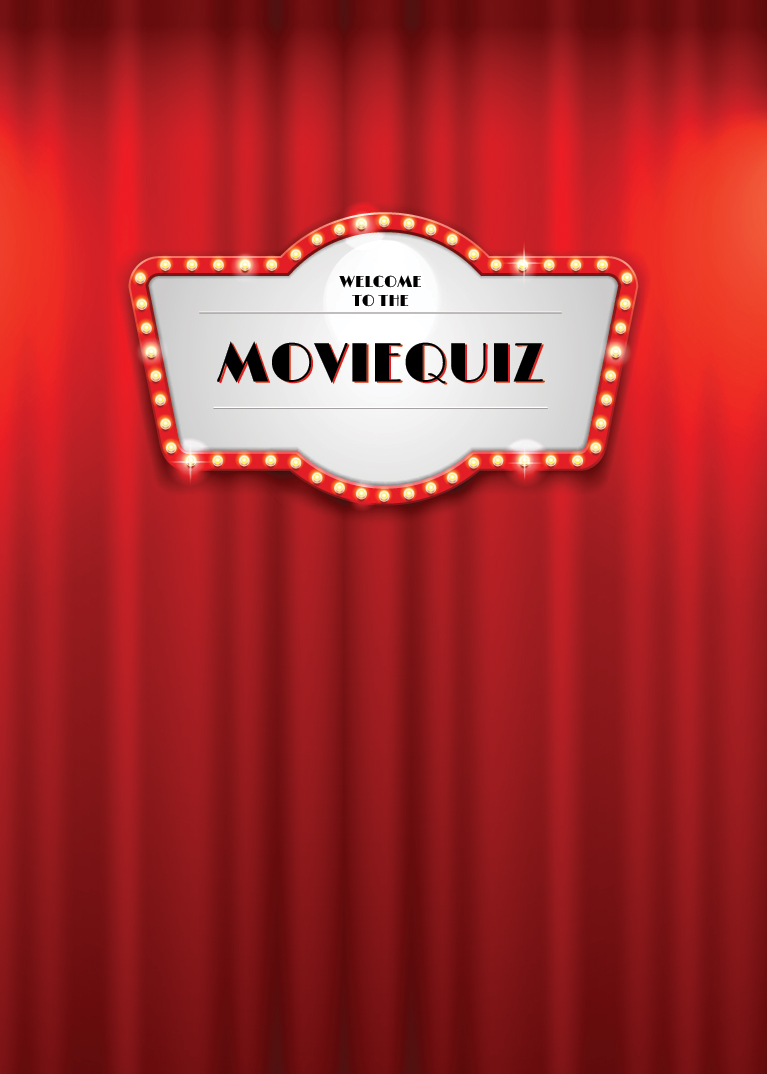
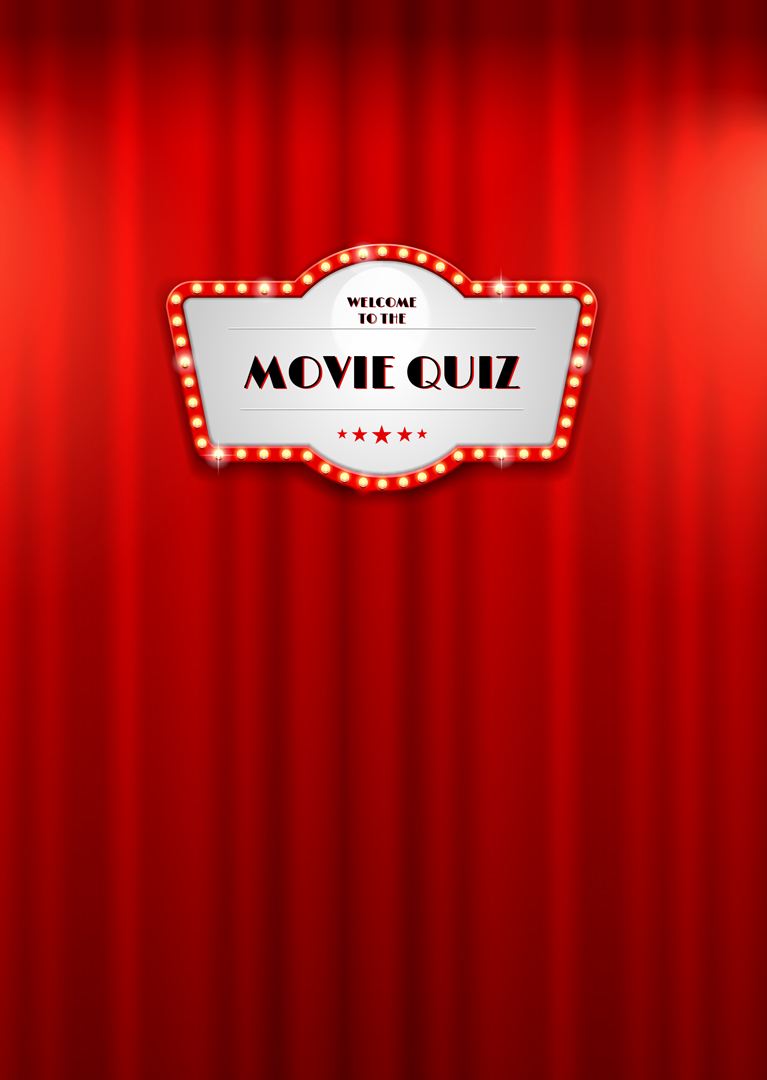
Added background for all devices

diff --git a/src/components/StartPage.css b/src/components/StartPage.css
@@ -11,14 +11,14 @@
 .start-button {
     font-family: 'Limelight', cursive;
     position: absolute;
-    top: 60%;
+    top: 55%;
     left: 50%;
     transform: translate(-50%, -50%);
     -ms-transform: translate(-50%, -50%);
     background-color: #D3A13B;
-    color: snow;
-    text-shadow: 2px 2px #000000;
-    font-size: 24px;
+    color: rgb(0, 0, 0);
+    text-shadow: 1px 1px #ffffff;
+    font-size: 18px;
     padding: 12px 24px;
     border: none;
     cursor: pointer;
@@ -27,7 +27,6 @@
     box-shadow: 0 0 0 rgba(255, 255, 255, 0.9);
     animation: pulse 2s infinite;
 }
-
 
 @-webkit-keyframes pulse {
     0% {
@@ -61,25 +60,14 @@
 @media (min-width: 768px) {
     .background-startpage {
         grid-template-columns: repeat(2, 1fr);
-        background-image: url("/assets/background-start-page.png");
+        background-image: url("/assets/background-start-page-tablet.jpg");
     }
-}
-
-/* desktop */
-
-@media (min-width: 1024px) {
-    .background-startpage {
-        grid-template-columns: repeat(4, 1fr);
-        background-image: url("/assets/background-start-page.png");
-    }
-
     .start-button {
-        top: 64%;
-        text-shadow: 1px 2px #000000;
-        font-size: 28px;
+        left: 50%;
+        top: 54%;
+        text-shadow: 1px 1px #ffffff;
+        font-size: 22px;
     }
-    
-    
     @-webkit-keyframes pulse {
         0% {
             -webkit-box-shadow: 0 0 0 0 rgba(243, 1, 1, 0.9);
@@ -91,7 +79,6 @@
             -webkit-box-shadow: 0 0 0 0 rgba(255, 255, 255, 0);
         }
     }
-    
     @keyframes pulse {
         0% {
             -moz-box-shadow: 0 0 0 0 rgba(159, 10, 10, 0.4);
@@ -106,5 +93,44 @@
             box-shadow: 0 0 0 0 rgba(244, 0, 0, 0);
         }
     }
+}
 
+/* desktop */
+
+@media (min-width: 1024px) {
+    .background-startpage {
+        grid-template-columns: repeat(4, 1fr);
+        background-image: url("/assets/background-start-page.jpg");
+    }
+    .start-button {
+        left: 49%;
+        top: 64%;
+        text-shadow: 1px 1px #ffffff;
+        font-size: 22px;
+    }
+    @-webkit-keyframes pulse {
+        0% {
+            -webkit-box-shadow: 0 0 0 0 rgba(243, 1, 1, 0.9);
+        }
+        70% {
+            -webkit-box-shadow: 0 0 0 10px rgba(255, 255, 255, 0);
+        }
+        100% {
+            -webkit-box-shadow: 0 0 0 0 rgba(255, 255, 255, 0);
+        }
+    }
+    @keyframes pulse {
+        0% {
+            -moz-box-shadow: 0 0 0 0 rgba(159, 10, 10, 0.4);
+            box-shadow: 0 0 0 0 #D3A13B;
+        }
+        70% {
+            -moz-box-shadow: 0 0 0 10px rgba(255, 255, 255, 0);
+            box-shadow: 0 0 0 10px rgba(255, 255, 25544, 0);
+        }
+        100% {
+            -moz-box-shadow: 0 0 0 0 rgba(255, 255, 255, 0);
+            box-shadow: 0 0 0 0 rgba(244, 0, 0, 0);
+        }
+    }
 }
